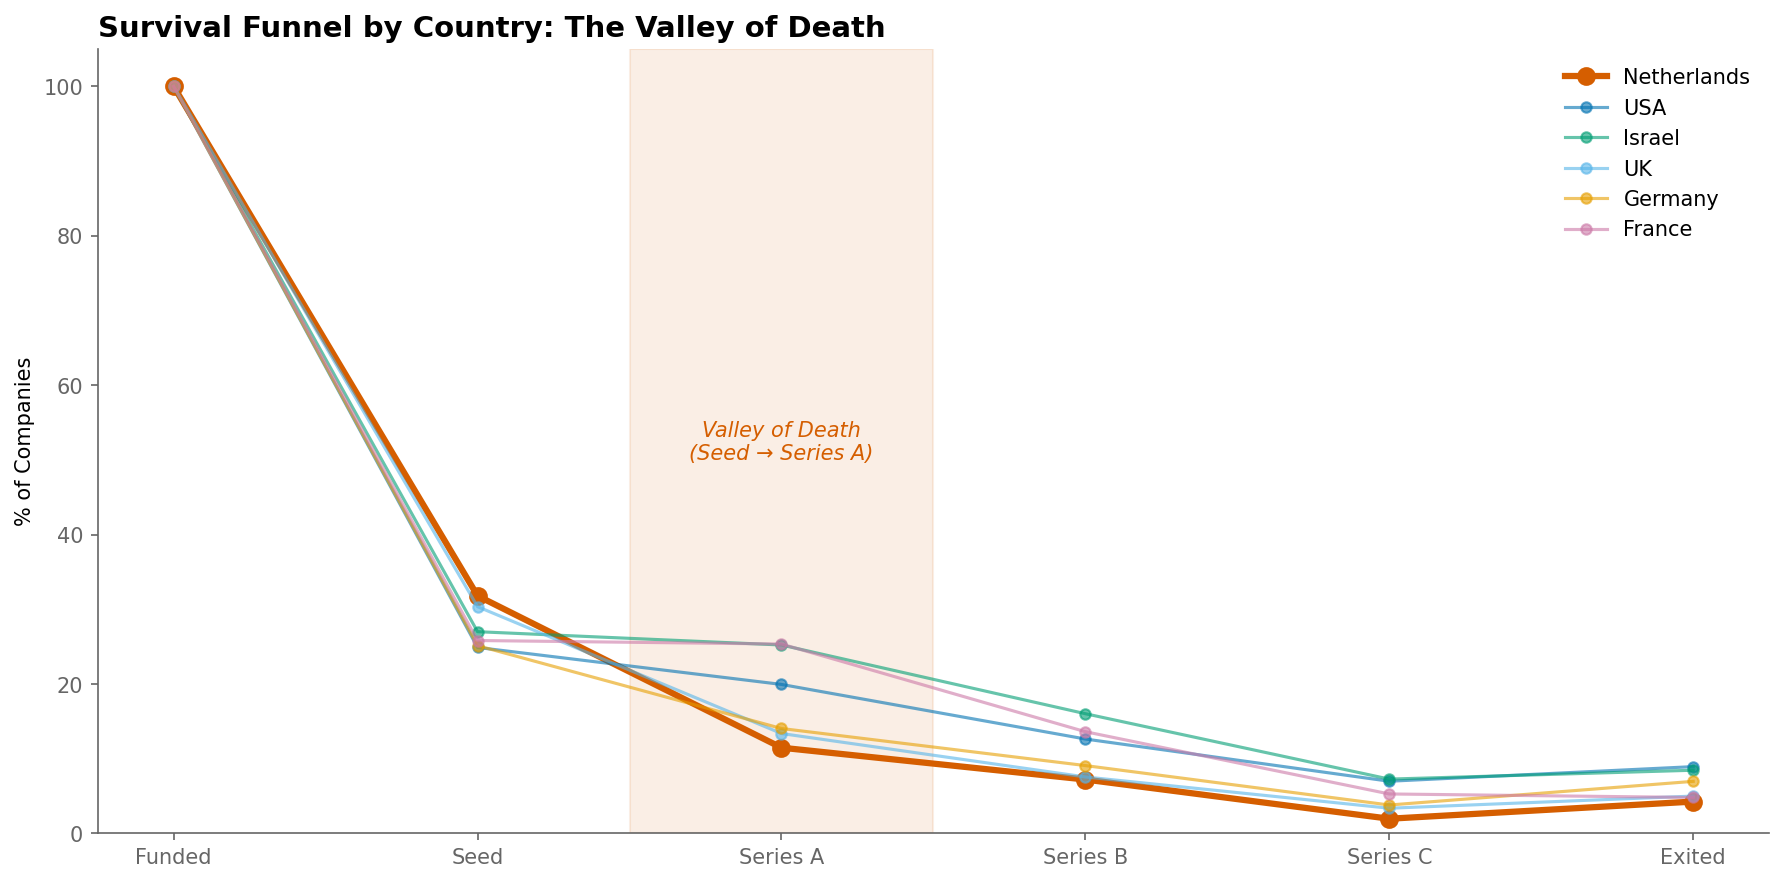
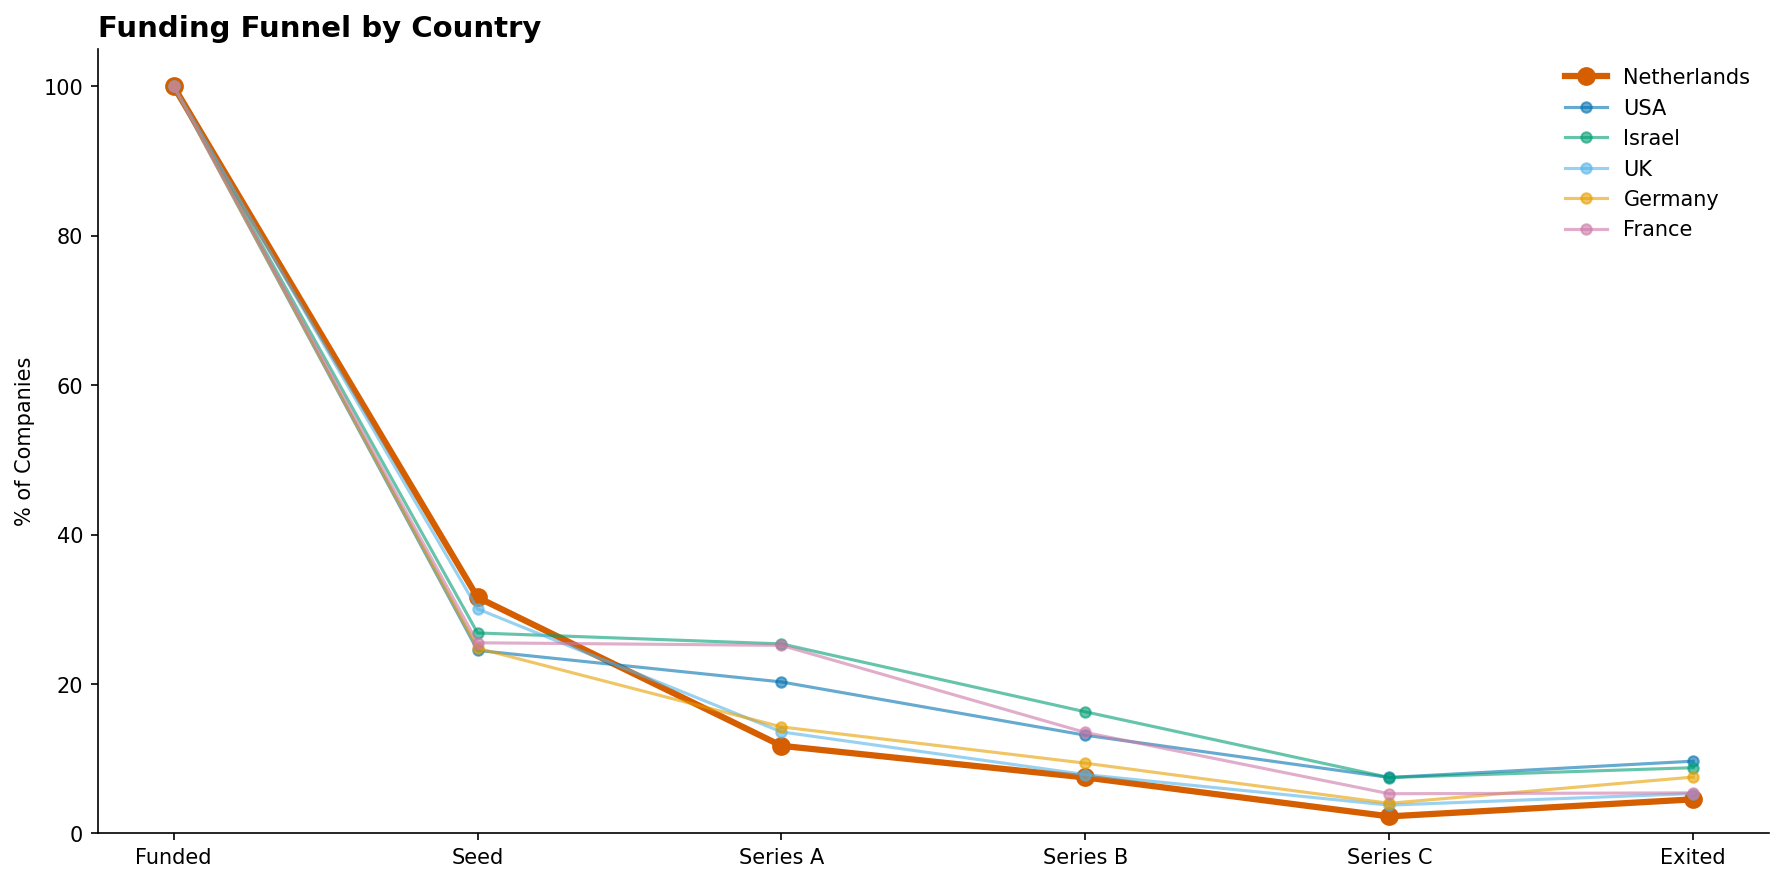
fix: remove Valley of Death references, update funnel chart

diff --git a/task-1-analysis/report.md b/task-1-analysis/report.md
@@ -1,19 +1,12 @@
 # Dutch Startup Ecosystem Analysis
-### Policy Briefing for the Ministry of Economic Affairs
 
----
+**Question:** What can policymakers do to support the startup ecosystem?
 
-**Research Question**
-What can policymakers do to support the startup ecosystem?
-
-**Approach**
-Benchmark the Netherlands against EU peers (France, UK, Germany) and global tech hubs (USA, Israel) using Crunchbase data on 48,000+ VC-backed companies (2005-2014 cohort).
+**Data:** Crunchbase, 48,163 VC-backed companies, 2005-2014 cohort
 
 ---
 
 ## Finding 1: Dutch startups drop off before they can scale
-
-**Dutch startups fail to convert Seed → Series A at half the rate of peers**
 
 | Region | Seed → A | A → B | B → C |
 |--------|----------|-------|-------|
@@ -22,15 +15,13 @@ Benchmark the Netherlands against EU peers (France, UK, Germany) and global tech
 | USA | 16.1% | 42.9% | 41.0% |
 | Israel | 21.9% | 40.0% | 41.7% |
 
-The critical bottleneck is post-seed, not seed availability. NL's gap vs peers is largest at Seed→A (-9.6pp) and B→C (-16.6pp).
+The bottleneck is Seed→A, not seed availability.
 
-![Chart 1: Full Funding Funnel](figures/finding1_funding_funnel.png)
+![Funding Funnel](figures/finding1_funding_funnel.png)
 
 ---
 
 ## Finding 2: Playing It Small
-
-**Dutch startups raise less, risk less, and achieve less**
 
 | Metric | Netherlands | EU Peers | USA | Israel |
 |--------|-------------|----------|-----|--------|
@@ -38,57 +29,39 @@ The critical bottleneck is post-seed, not seed availability. NL's gap vs peers i
 | Median Funding | $1.0M | $1.7M | $2.7M | $3.9M |
 | Exit Rate | 4.3% | 5.4% | 8.9% | 8.5% |
 
-Dutch startups have the lowest failure rate—which sounds positive. But combined with the lowest funding and the lowest exit rate, it suggests the ecosystem **plays it small**: fewer bold bets, fewer big outcomes.
+Low failure + low funding + low exits = playing it small.
 
-![Chart 2: Playing It Small](figures/finding2_playing_small.png)
+![Playing It Small](figures/finding2_playing_small.png)
 
 ---
 
 ## Finding 3: The Opportunity Cost
 
-**We're missing ~9 scale-ups per year**
-
 From NL's 97 Seed-funded companies:
-- **Current rate (6.2%):** 6 companies reach Series A
-- **If EU rate (9.2%):** 9 companies (+3)
-- **If USA rate (16.1%):** 15 companies (+9)
-- **If Israel rate (21.9%):** 21 companies (+15)
+- **At NL rate (6.2%):** 6 reach Series A
+- **At USA rate (16.1%):** 15 reach Series A (+9)
 
-Every year, 9 potential scale-ups fall into the Valley of Death.
+~9 potential scale-ups lost per year.
 
-![Chart 3: The Opportunity Cost](figures/finding3_opportunity_cost.png)
+![Opportunity Cost](figures/finding3_opportunity_cost.png)
 
 ---
 
 ## Recommendations
 
-### 1. Co-invest with international VCs to bridge the funding gap
-**What works:** Israel's Yozma program ($100M, required foreign VC partners) grew their VC market 60x in 7 years.
-
-**Action:** Co-invest with private VCs in post-seed companies
-**Target:** Improve Seed→A conversion from 6% to 15%
-
-### 2. Make Angel Investing Rational
-**What works:** UK's SEIS tax relief (50% on seed investments) is now used in 90%+ of angel deals.
-
-**Action:** Introduce Dutch SEIS equivalent (30-50% tax relief)
-**Why:** Currently high-risk = irrational. Tax relief = risk mitigation.
-
-### 3. Fix the Incentives
-The bottleneck isn't Dutch founders—they perform equally well at Series B. It's the lack of incentives to take early-stage risk. Tax relief for angels and smarter ESOP taxation would shift the risk/reward calculus toward high-growth bets.
+1. **Co-invest with international VCs** — Israel's Yozma ($100M) grew VC market 60x in 7 years
+2. **Dutch SEIS tax relief** — UK's 50% tax relief is used in 90%+ of angel deals
+3. **Fix ESOP taxation** — Shift risk/reward toward high-growth bets
 
 ---
 
 ## Limitations
 
-- Data ends in 2014; the ecosystem has evolved significantly
-- Small Dutch sample (305 companies); results are directional, not definitive
-- Exit data only captures acquisitions, not IPOs (0 IPOs in dataset)
-- No founder-level data; team quality may drive outcomes
-- No exit valuations (an acquisition ≠ a good outcome)
-- Companies may relocate HQ between funding rounds
+- Data ends in 2014
+- Small Dutch sample (305 companies)
+- Exit = acquisitions only (0 IPOs in dataset)
+- No founder-level or valuation data
 
 ---
 
-**Data:** Crunchbase, 48,163 companies, 2005-2014 first funding
-**Analysis:** See `analysis.ipynb` for full methodology and code
+**Analysis:** See `analysis.ipynb` for methodology
